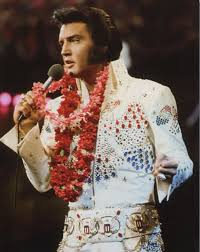
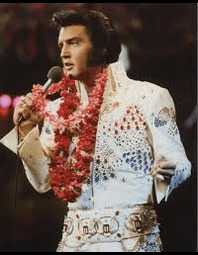
Elvis Update

diff --git a/FeedElvis.html b/FeedElvis.html
@@ -6,7 +6,7 @@
     <meta name="viewport" content="width=device-width, initial-scale=1.0">
     <link rel="stylesheet" href="Styles.css" />
     <link rel="icon" type="image/x-icon" href="favicon.ico">
-    <title>Big D productions LTD. - Home</title>
+    <title>Big D productions LTD. - Feed Elvis</title>
 </head>
 <body>
     <header> <img src="Logo.png" style="float:left" height="40" width="70" />Big D productions LTD.<img src="Logo.png" style="float:right" height="40" width="70" /></header>
@@ -22,16 +22,20 @@
     <section class="AllClasses">
         <h1><u>Feed Elvis</u></h1>
         <article class="Class" style="display: block; margin-left: auto; margin-right: auto; width: 30%;">
-            <img src="7.png" id="Elvis" style="display: block; margin-left: auto; margin-right: auto; "/>
+            <img src="7.png" id="Elvis" style="display: block; margin-left: auto; margin-right: auto; " />
         </article>
         <button type="button" onclick="ElvisTransform(1)" style="float:left">Feed Elvis</button>
         <button type="button" onclick="ElvisTransform(0)" style="float:right">Starve Elvis</button>
+        <button type="button" onclick="ElvisTransform(2)" style="float:right">Send Elvis to the toilet</button>
+        <button type="button" onclick="ElvisTransform(3)" style="float:left">Make Elvis perform</button>
     </section>
     <script>
         function ElvisTransform(Form) {
             var pic;
-            if (Form == 1) { pic = "8.png" }
-            else { pic = "7.png" }
+            if (Form == 1) { pic = "8.png"; }
+            else if (Form == 0) { pic = "7.png"; }
+            else if (Form == 2) { pic = "10.png"; }
+            else if (Form == 3) { pic = "11.gif"; }
             document.getElementById('Elvis').src = pic;
             var snd = new Audio("Song3.mp3");
             snd.play();

diff --git a/TickleMJ.html b/TickleMJ.html
@@ -6,7 +6,7 @@
     <meta name="viewport" content="width=device-width, initial-scale=1.0">
     <link rel="stylesheet" href="Styles.css" />
     <link rel="icon" type="image/x-icon" href="favicon.ico">
-    <title>Big D productions LTD. - Home</title>
+    <title>Big D productions LTD. - Tickle MJ</title>
 </head>
 <body>
     <header> <img src="Logo.png" style="float:left" height="40" width="70" />Big D productions LTD.<img src="Logo.png" style="float:right" height="40" width="70" /></header>

diff --git a/Styles.css b/Styles.css
@@ -78,4 +78,5 @@ button {
     color: #ffffff;
     border-color: #ffffff;
     font-size: 40px;
+    margin: 3px;
 }
